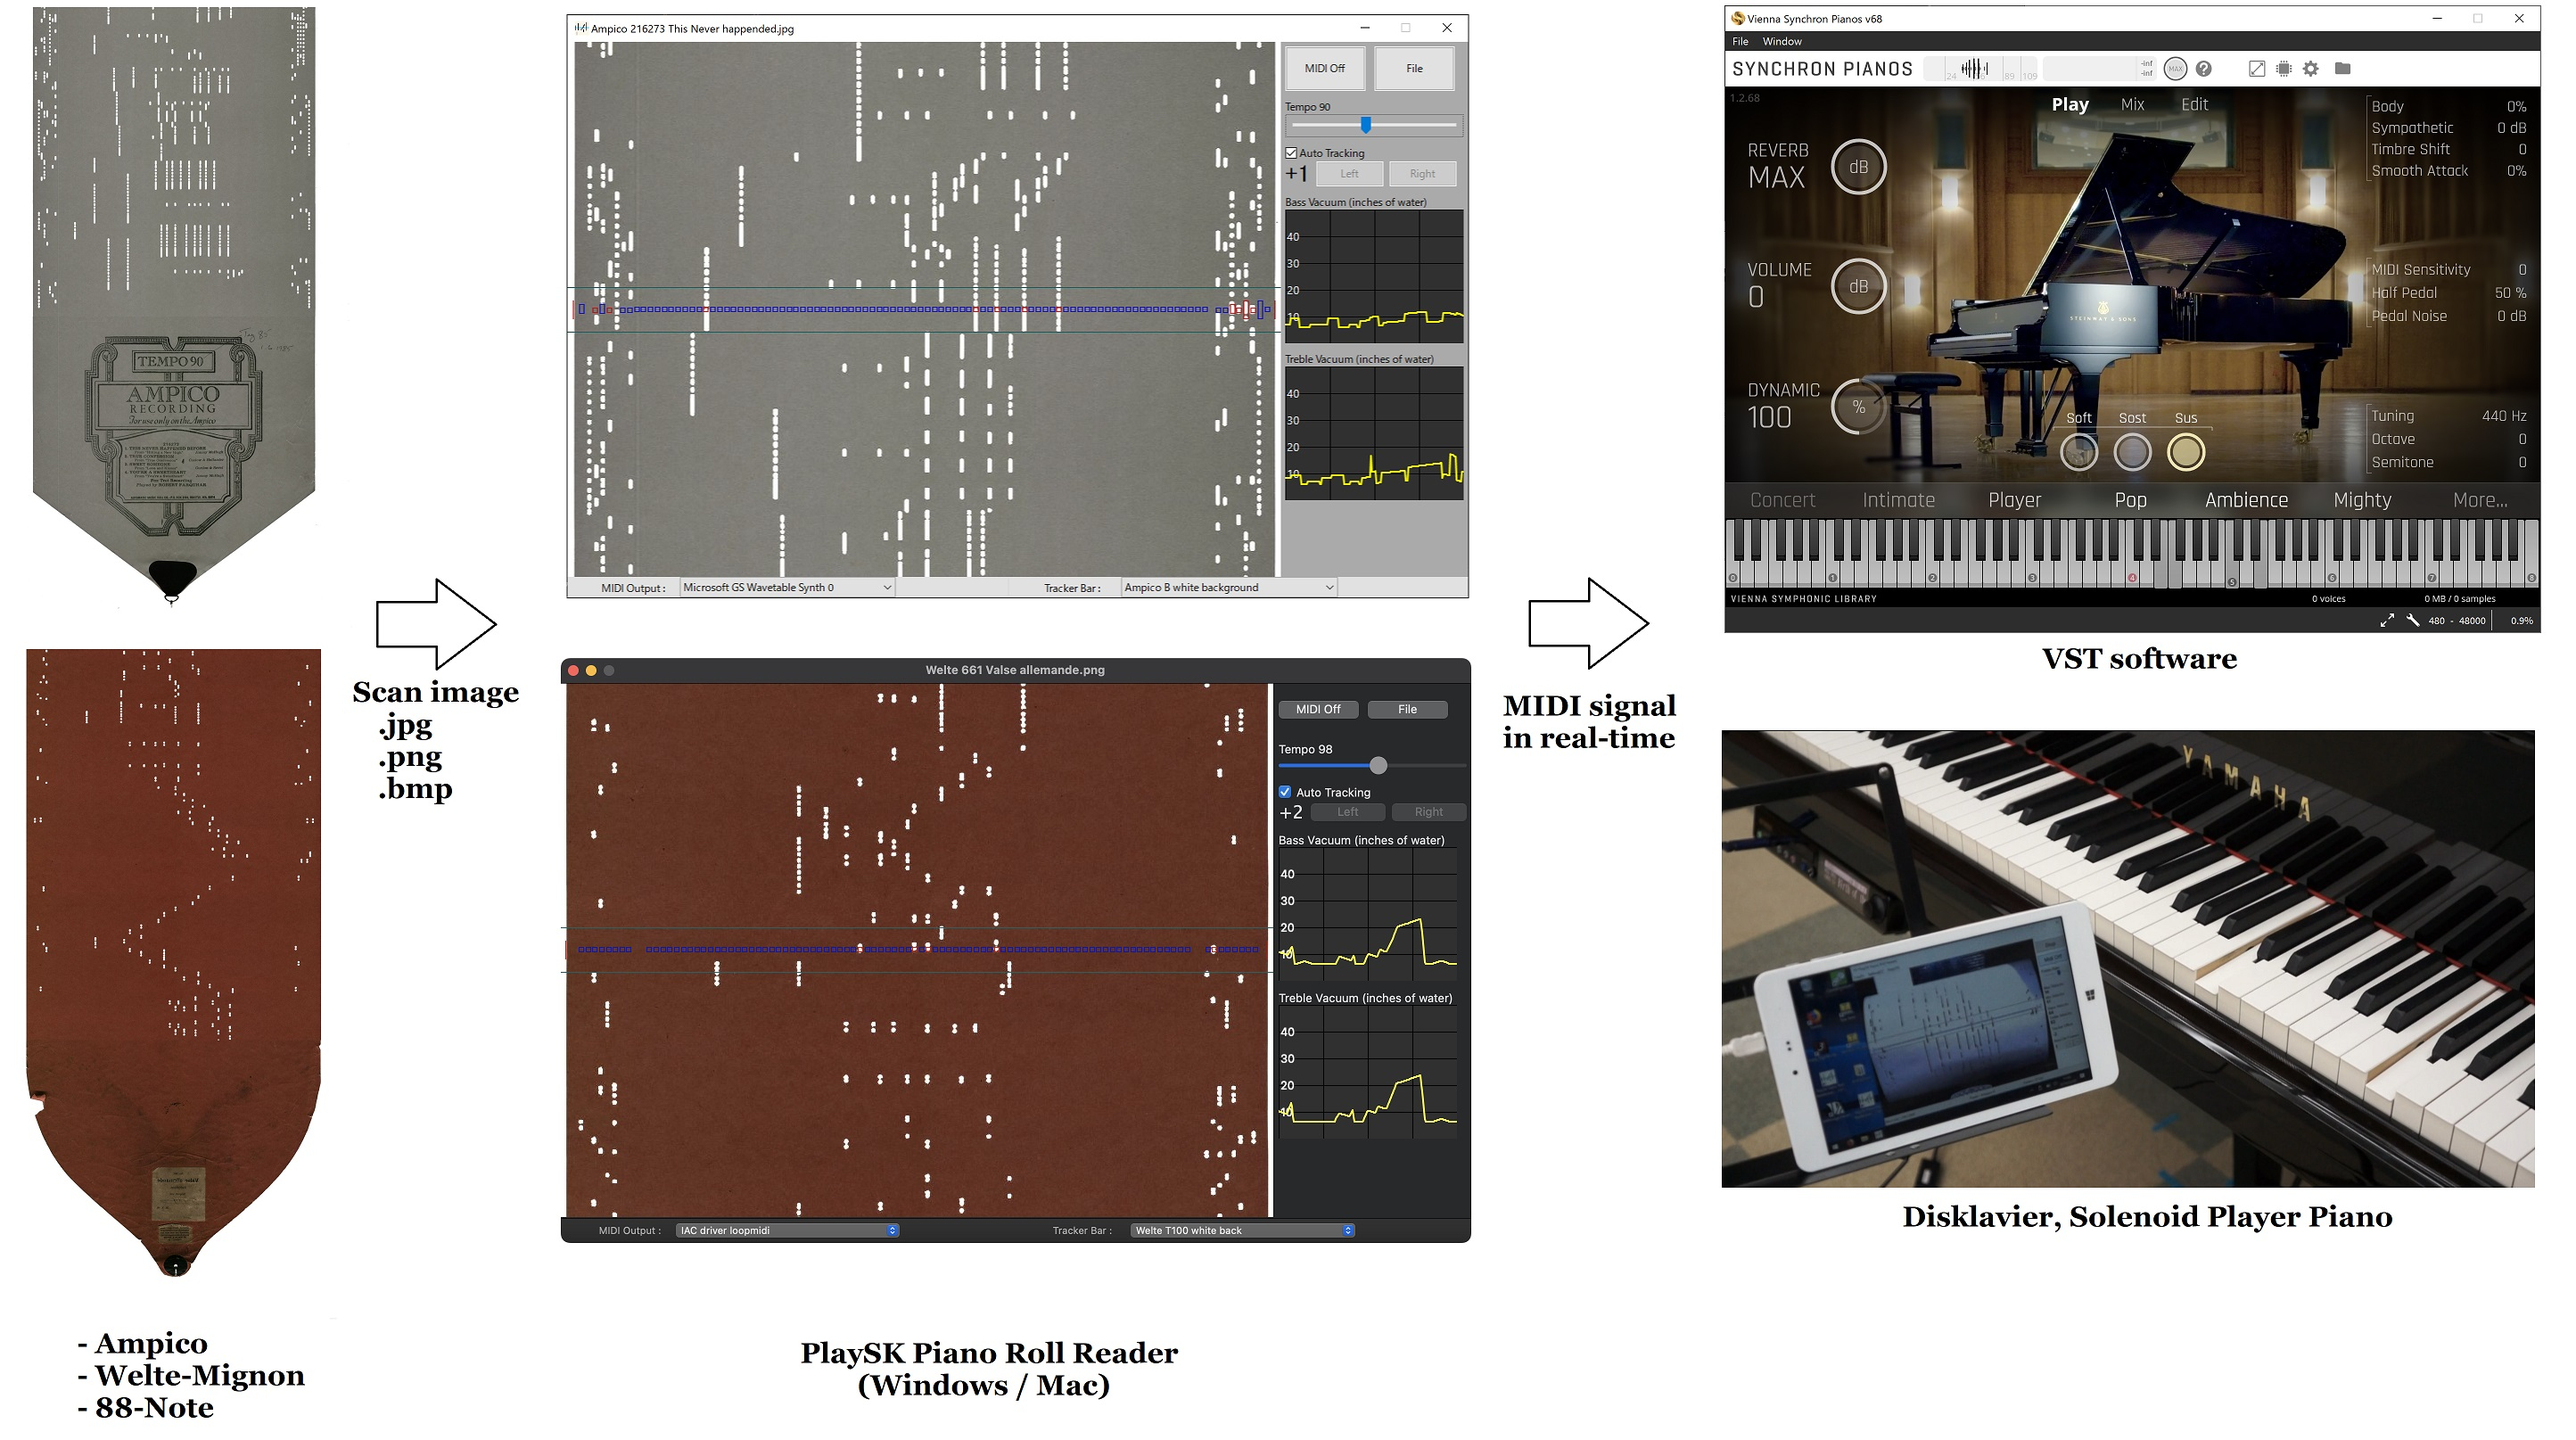
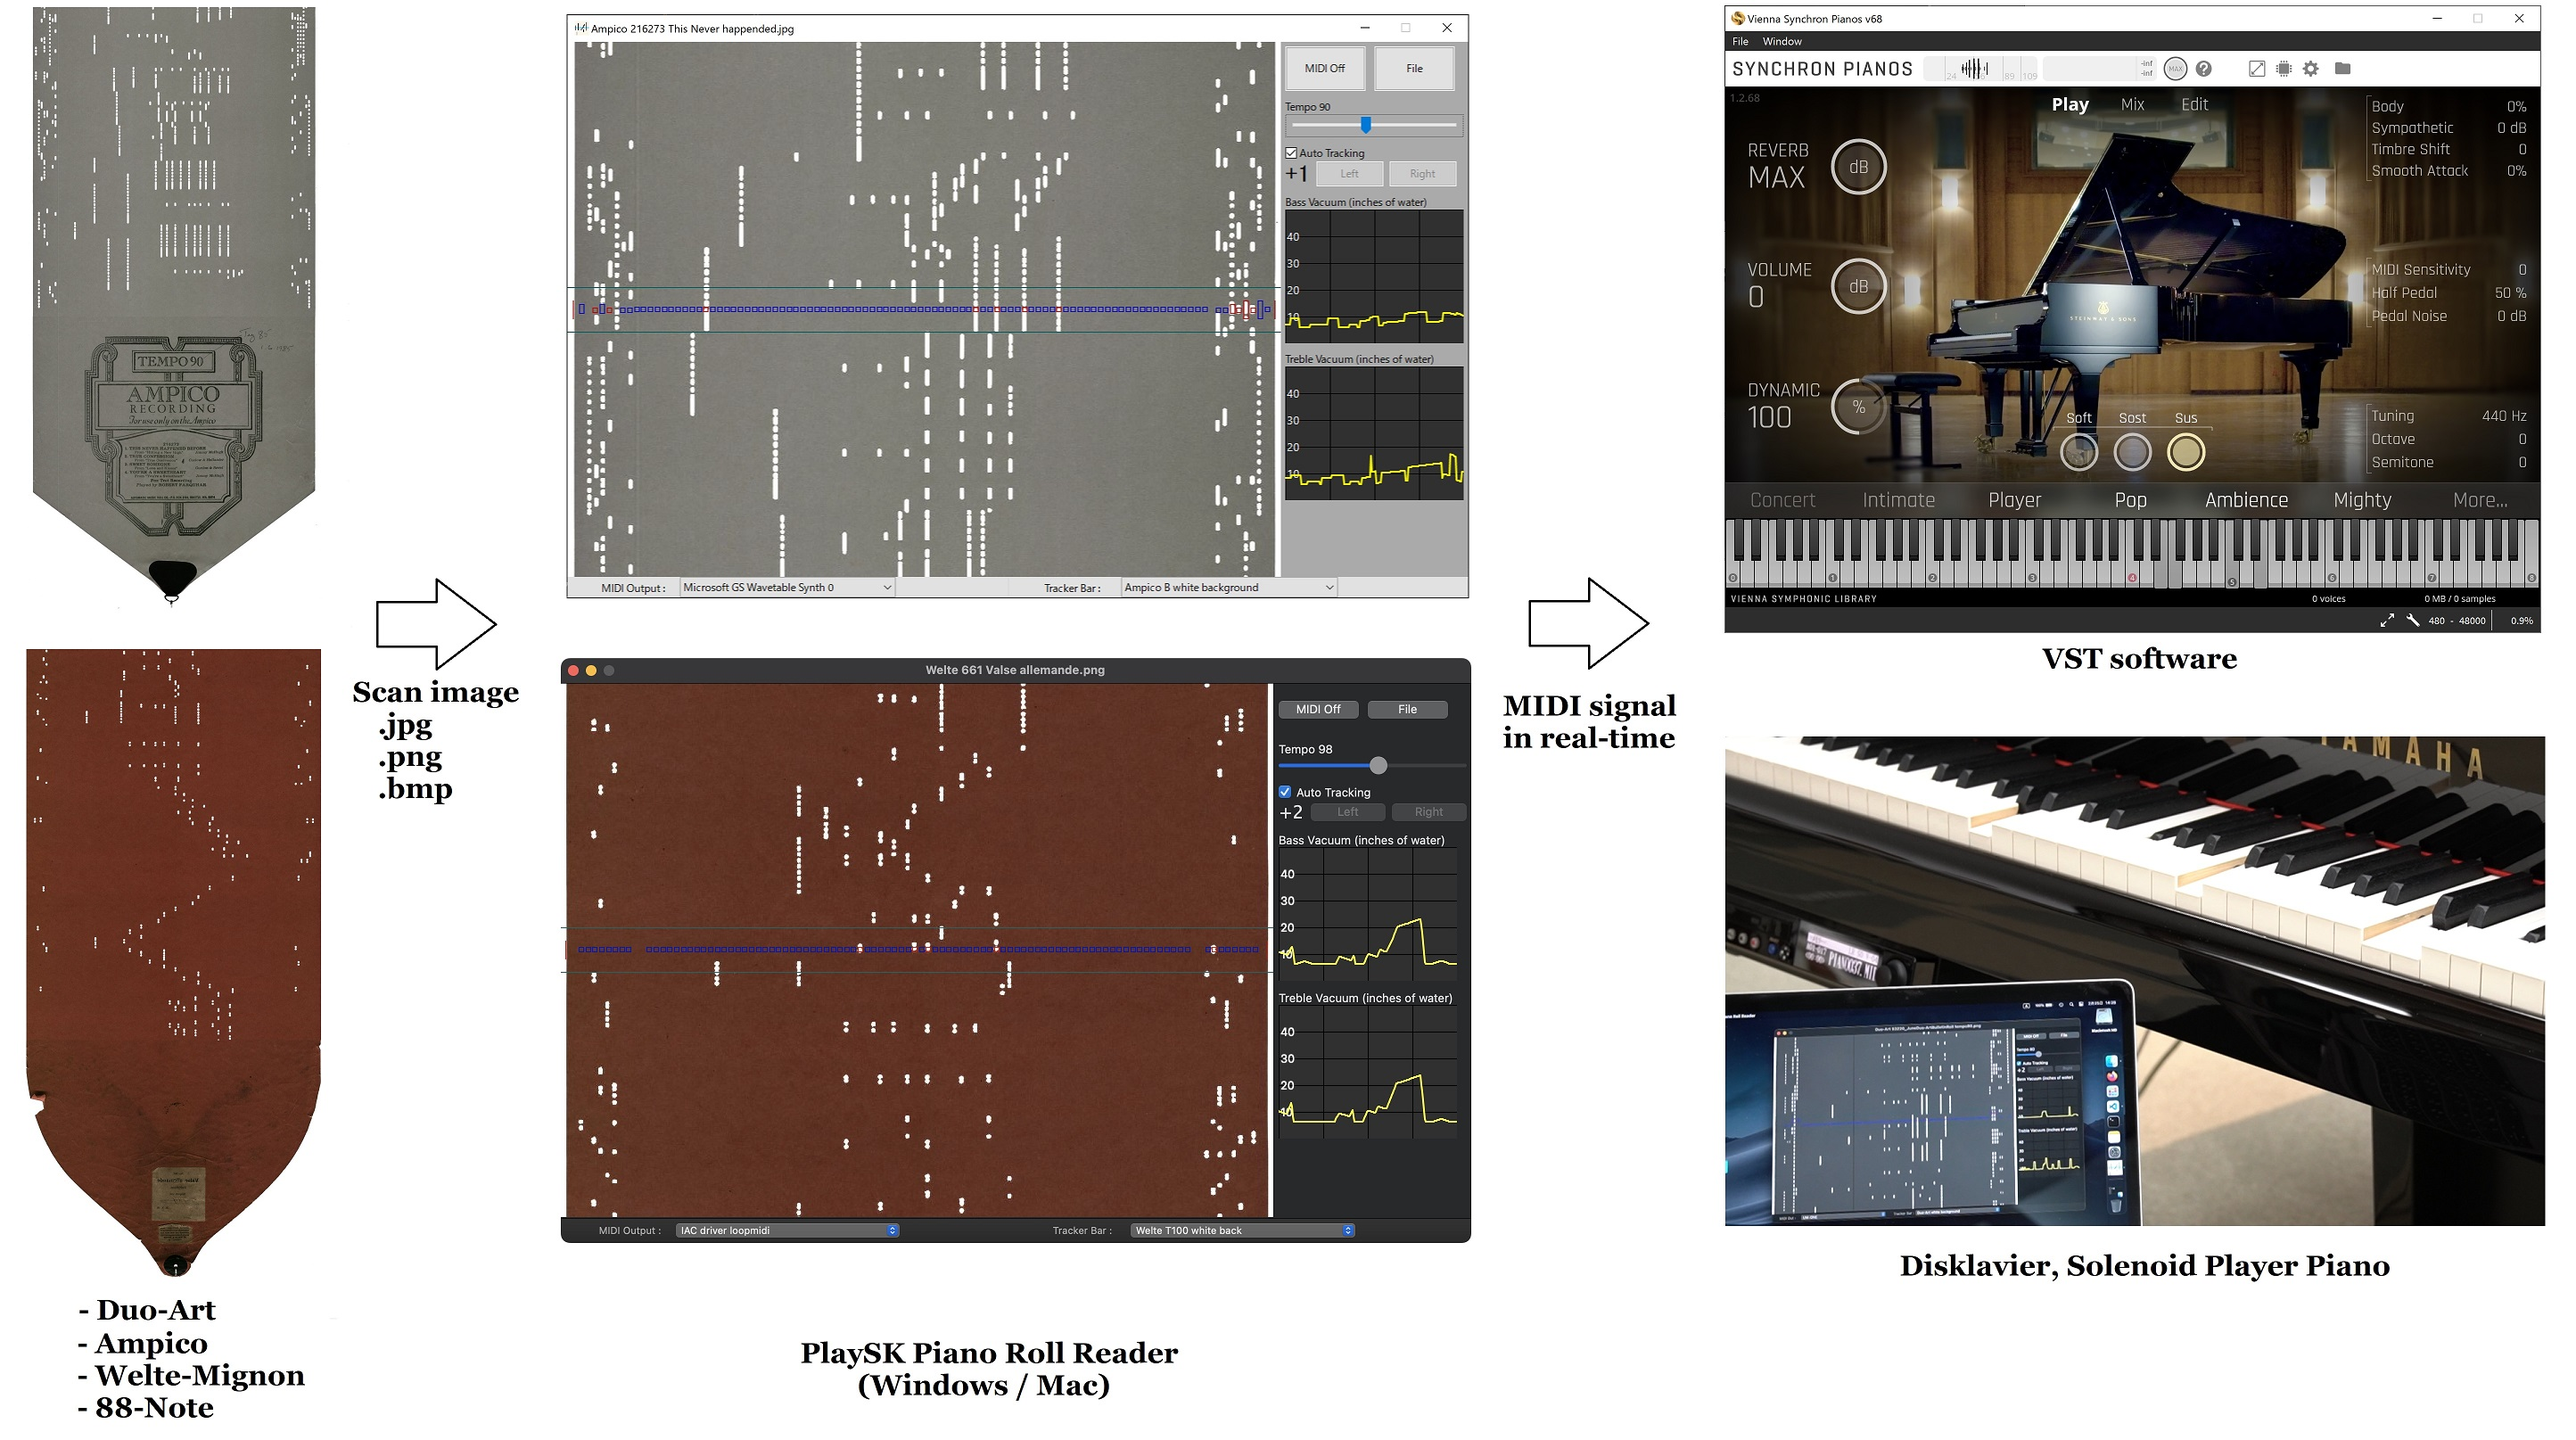
refactoring, Update README, Add sample scans

Changed region(s): [[0.6542, 0.4954, 0.9969, 0.8978], [0.0312, 0.8978, 0.0935, 0.9288]]

diff --git a/test/launch_test.py b/test/launch_test.py
@@ -1,0 +1,74 @@
+import faulthandler
+import os
+import sys
+
+import wx
+
+sys.path.append("../src/")
+from input_src import InputScanImg
+from main import MainFrame
+
+faulthandler.enable()
+
+
+class Aging(MainFrame):
+    def __init__(self, path):
+        super().__init__()
+        self.aging(path)
+
+    def aging(self, path):
+        print(path)
+
+        self.obj.player.emulate_off()
+        self.spool.release_src()
+        tmp = self.spool
+        self.spool = InputScanImg(
+            self, path, self.obj.player.spool_diameter, self.obj.player.roll_width, callback=self.obj)
+        self.spool.start_worker()
+        self.Title = os.path.basename(path)
+        self.sizer3.Replace(tmp, self.spool)
+        tmp.Destroy()
+        self.obj.player.emulate_on()
+        self.spool.start_play = True
+        # close app every 10 seconds and re-launch
+        print("call close")
+        wx.CallLater(1000 * 10, self.on_close, event=None)
+
+
+if __name__ == "__main__":
+    import glob
+    import platform
+    import random
+
+    # Set windows timer precision to 1ms
+    pf = platform.system()
+    if pf == "Windows":
+        from ctypes import windll
+        windll.winmm.timeBeginPeriod(1)
+
+    # high DPI awareness
+    # try:
+    #     import ctypes
+    #     ctypes.windll.shcore.SetProcessDpiAwareness(True)
+    # except Exception as e:
+    #     print(e)
+
+    paths = list(glob.glob(r"C:\Users\sasaki\source\repos\nai-kon\cis-roll-converter\output\*Ampico*"))
+
+    def launch_app():
+        path = random.choice(paths)
+        print("start app")
+        app = wx.App()
+        Aging(path)
+        app.MainLoop()
+        print("end app")
+
+    aging_cnt = 0
+    while True:
+        launch_app()
+        print("aging_cnt", aging_cnt)
+        aging_cnt += 1
+
+    if pf == "Windows":
+        from ctypes import windll
+        windll.winmm.timeEndPeriod(1)

diff --git a/src/main.py b/src/main.py
@@ -85,13 +85,13 @@ class MainFrame(wx.Frame):
         self.Show()
 
     def create_status_bar(self):
-        sbar = self.CreateStatusBar(5)  # midi-port, tracker-bar
+        sbar = self.CreateStatusBar(4)  # midi-port, tracker-bar
         _, h = sbar.Size[:2]
-        sbar.SetStatusWidths([-1, -4, -1, -4, -5])
+        sbar.SetStatusWidths([-5, -1, -5, -10])
 
         # midi port
         ports = self.midiobj.port_list
-        rect = sbar.GetFieldRect(1)
+        rect = sbar.GetFieldRect(0)
         self.port_sel = wx.Choice(sbar, wx.ID_ANY, choices=ports, size=(rect.width, h))
         self.port_sel.Bind(wx.EVT_CHOICE, self.change_midi_port)
         self.port_sel.SetPosition((rect.x, 0))
@@ -101,7 +101,7 @@ class MainFrame(wx.Frame):
 
         # tracker bar
         players = self.player_mng.player_list
-        rect = sbar.GetFieldRect(3)
+        rect = sbar.GetFieldRect(2)
         self.player_sel = wx.Choice(sbar, wx.ID_ANY, choices=players, size=(rect.width, h))
         self.player_sel.Bind(wx.EVT_CHOICE, self.change_player)
         self.player_sel.SetPosition((rect.x, 0))

diff --git a/src/controls.py b/src/controls.py
@@ -97,13 +97,8 @@ class TrackerCtrl(wx.Panel):
         sizer.Add(self.label, (1, 0), (1, 1), flag=wx.EXPAND)
         sizer.Add(self.left, (1, 1), (1, 1), flag=wx.EXPAND | wx.LEFT, border=5)
         sizer.Add(self.right, (1, 2), (1, 1), flag=wx.EXPAND | wx.LEFT, border=5)
-        self.Bind(wx.EVT_KEY_DOWN, self.OnKeyDown)
         self.SetSizer(sizer)
         self.Fit()
-
-    def OnKeyDown(self, event):
-        print("keydown", event)
-
 
     def _on_auto_checked(self, event):
         if event.GetEventObject().IsChecked():
@@ -127,8 +122,8 @@ if __name__ == "__main__":
     frame = wx.Frame(None, wx.ID_ANY)
 
     # panel1 = WelcomeMsg(frame)
-    # panel1 = TrackerCtrl(frame)
-    panel1 = SpeedSlider(frame)
+    panel1 = TrackerCtrl(frame)
+    # panel1 = SpeedSlider(frame)
 
     frame.Fit()
     frame.Show()

diff --git a/README.md b/README.md
@@ -6,23 +6,26 @@ Optically reading a piano roll image, emulates expression and output midi signal
 
 The "virtual tracker bar" optically picks up the roll holes then emulates note, pedal and expression.
 Currently, four "virtual tracker bar" are available.
-- Ampico B
-- Welte-Mignon Licensee
-- Welte-Mignon T-100 (Red)
 - Standard 88-note
+- Ampico B
+- Duo-Art
+- Welte-Mignon (Licensee, T-100)
 
-We have a plan to support Ampico A and Duo-Art in the future.
+I have a plan to support Ampico A, Recordo, Welte T-98 in the future.
 
-## Download binary
+## Usage
 
-Windows and Mac binaries are available.
+1. Download the software.
+    https://github.com/nai-kon/PlaySK-Piano-Roll-Reader/releases/tag/Ver3.0
 
-https://github.com/nai-kon/PlaySK-Piano-Roll-Reader/releases/tag/Ver3.0
+2. Launch the program and Select MIDI output and Virtual tracker bar
+3. Select scan image from `sample_scans` folder
+4. Enjoy!
 
 
 ## Tips
-* The program picks up lighted holes. Dark holes are not supported on this version.
-* The input image requires white padding on both roll edges.
+* The program picks up lighted holes.
+* **The input image requires white padding on both roll edges.** (please refer to sample scans)
 * The roll scrolling direction is downward. So the Welte T-100 image should be inverted.
 * Ver3.0 only supports the scanned image. WebCam and .mp4 are not supported.
 * Automatically set the tempo if the input filename has the tempo keyword (tempoXX)
@@ -41,7 +44,7 @@ $ pip install -r requirements.txt
 $ cd src/
 $ python main.py
 ```
-We recommend to install on venv.
+We recommend to install packages on venv.
 
 ## Build binary
 
@@ -49,9 +52,8 @@ We recommend to install on venv.
     - `./build_win.bat`
     - tested on Windows10
 - macOS
-    - `./build_mac.sh`
-    - tested on macOS Venture with Intel CPU
-    - not tested on Apple silicon
+    - `./build_mac_x64.sh` `./build_mac_arm.sh`
+    - tested on macOS Venture (both Intel and M1 cpu)
 
 ## Notes
 * dark mode on Windows is not working due to the wxpython.
